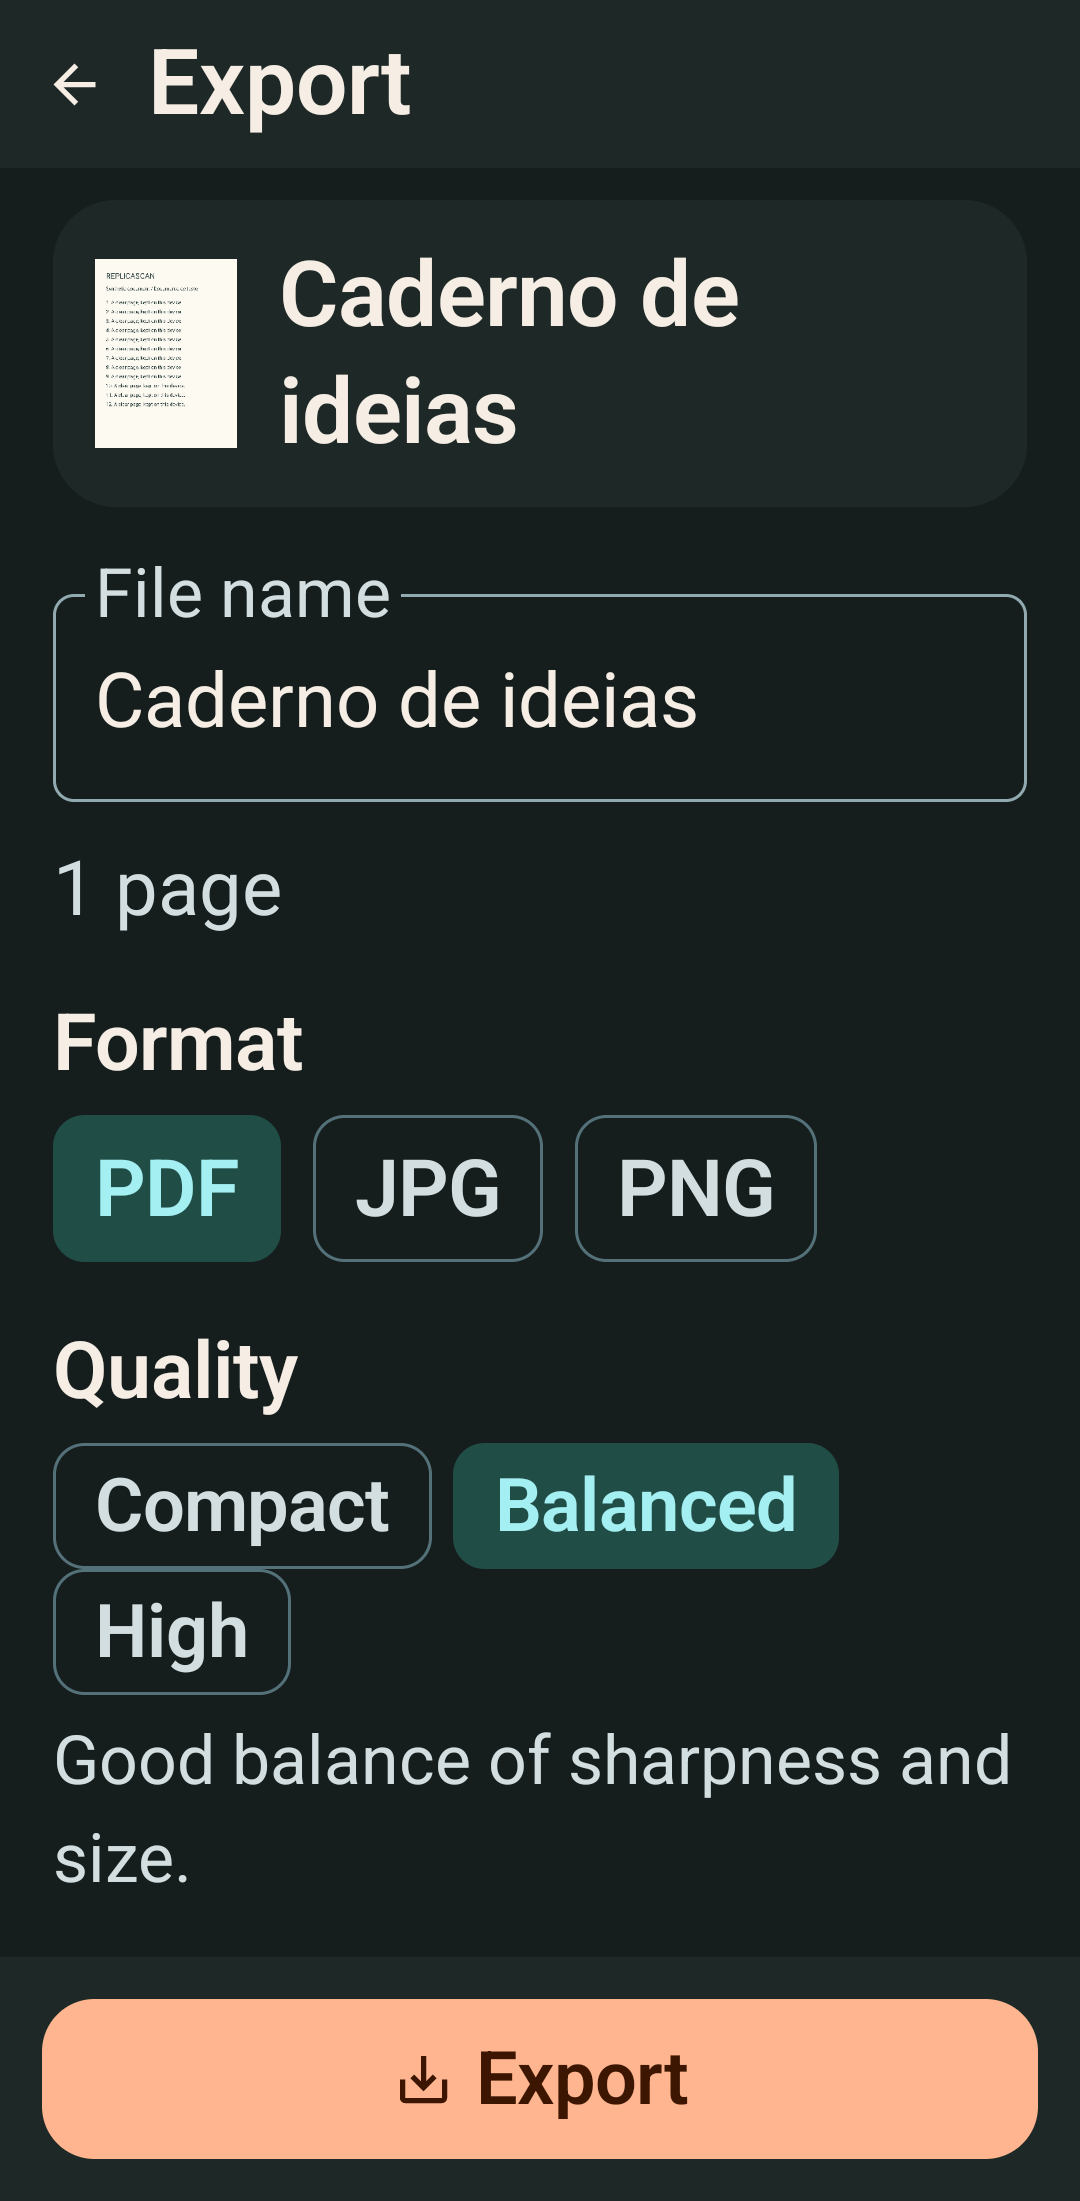
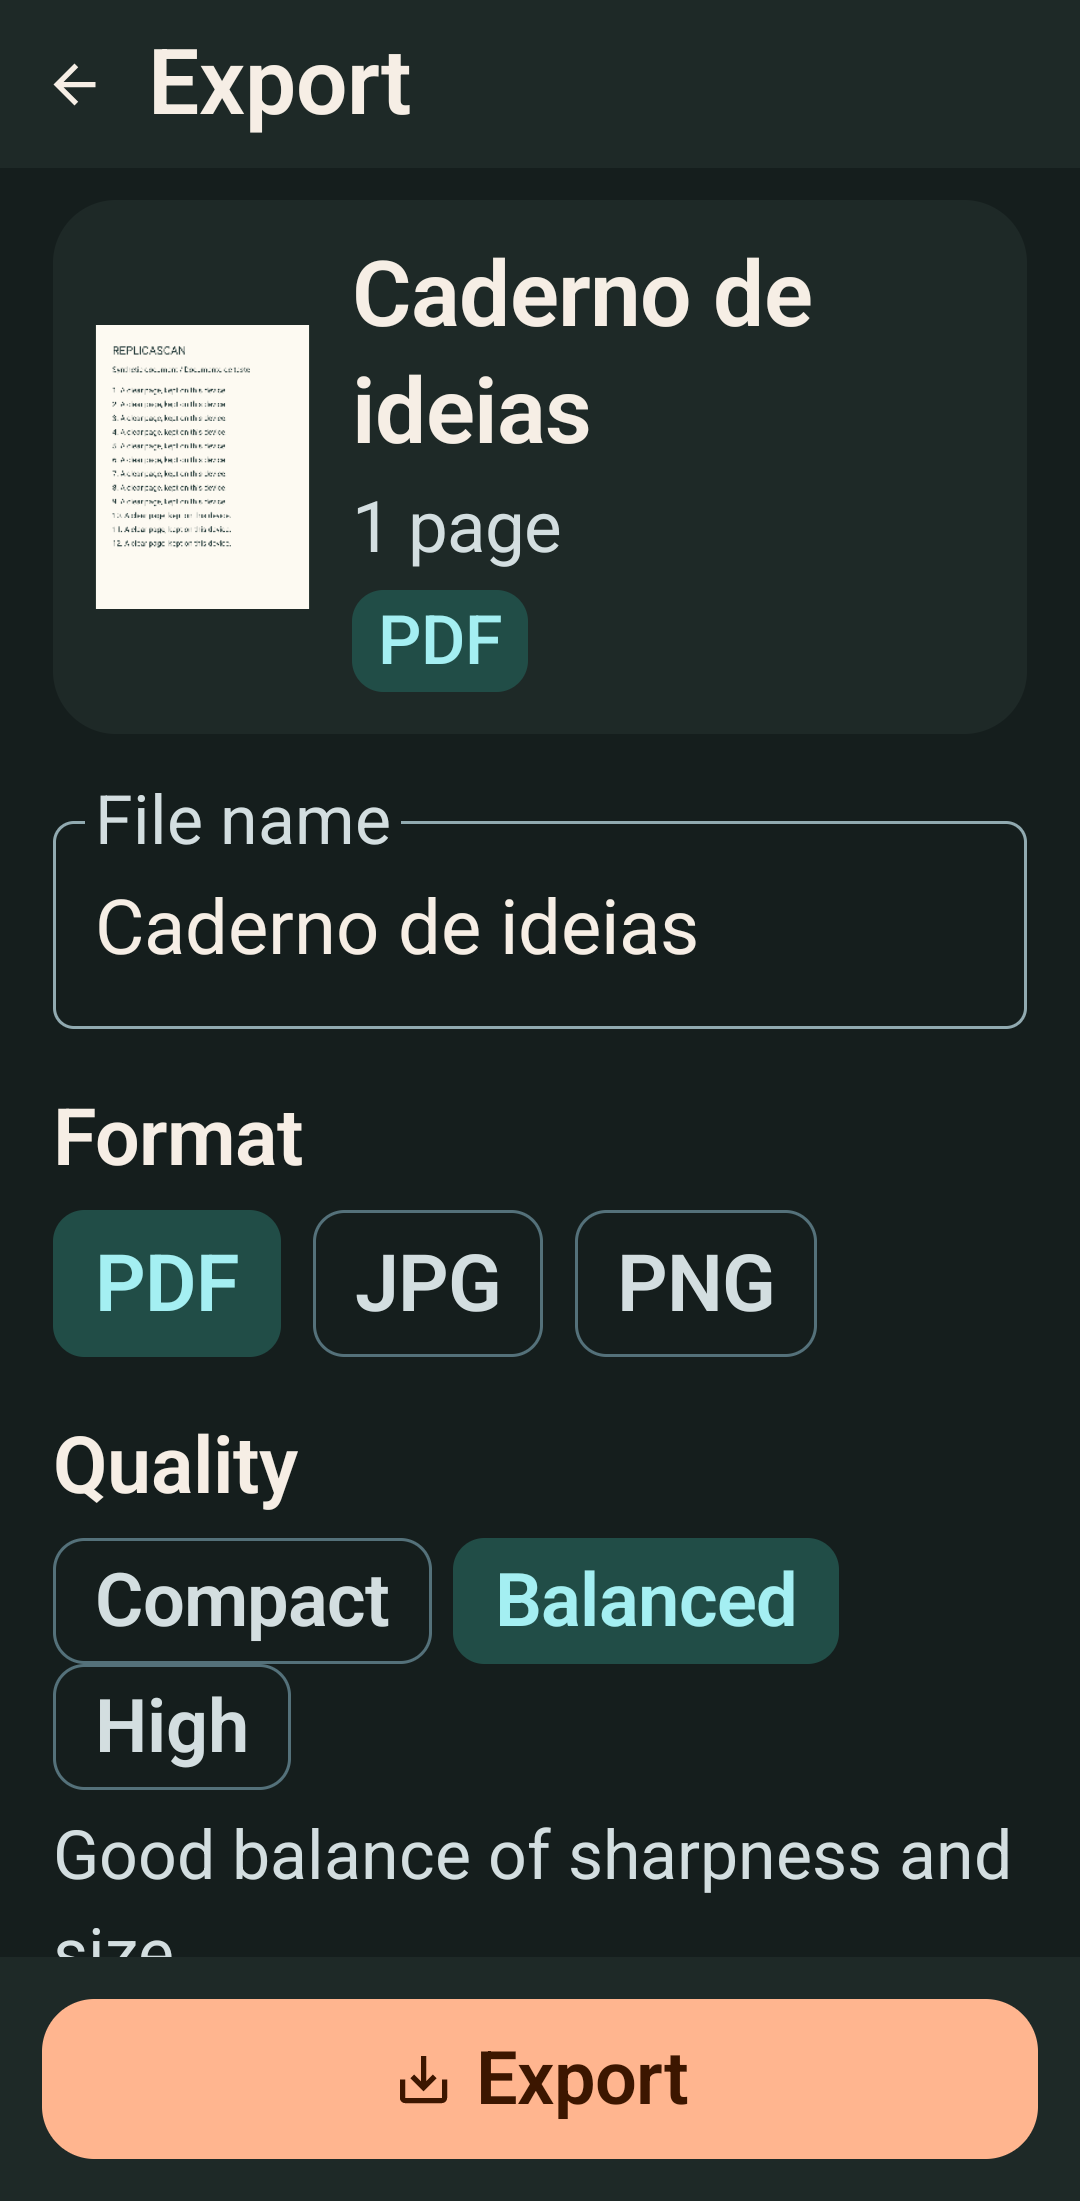
docs(design): review screens and refresh Android captures

diff --git a/docs/design/visual-recovery/evidence/review.html b/docs/design/visual-recovery/evidence/review.html
@@ -23,12 +23,13 @@
   <h1>Comparação visual Android</h1>
   <p>À esquerda, a captura rejeitada do ciclo anterior. À direita, o estado atual renderizado pelo Compose no emulador Android 14 / API 34, com documento sintético e estados injetados. A prévia de exportação em andamento foi recapturada após a mudança funcional. Esta prancha é evidência para revisão, não aceite estético nem prova de câmera, OCR ou exportação reais.</p>
   <nav aria-label="Ir para tela">
-    <a href="#home">Home</a><a href="#review">Revisão</a><a href="#crop">Recorte</a>
+    <a href="#home">Home</a><a href="#large-type">Fonte 200%</a><a href="#review">Revisão</a><a href="#crop">Recorte</a>
     <a href="#export">Exportação</a><a href="#progress">Progresso</a><a href="#success">Sucesso</a>
     <a href="#onboarding">Introdução</a><a href="#ocr">OCR</a><a href="#history">Histórico</a>
     <a href="#settings">Configurações</a><a href="#launcher">Ícone</a>
   </nav>
   <section id="home"><h2>Home com documento</h2><div class="pair"><figure><figcaption>Anterior</figcaption><img src="../../evidence/home-recent.png" alt="Home anterior"></figure><figure><figcaption>Atual</figcaption><img src="home-recent.png" alt="Home atual com raposa aprovada"></figure></div></section>
+  <section id="large-type"><h2>Home com fonte 200% e tema escuro</h2><p>Nesta configuração, a ilustração cede espaço ao título e às ações. O conteúdo continua rolável para documentos adicionais.</p><figure><img src="home-dark-200.png" alt="Home atual em tema escuro e fonte ampliada a 200%"></figure></section>
   <section id="review"><h2>Revisão</h2><div class="pair"><figure><figcaption>Anterior</figcaption><img src="../../evidence/review.png" alt="Revisão anterior"></figure><figure><figcaption>Atual</figcaption><img src="review.png" alt="Revisão atual"></figure></div></section>
   <section id="crop"><h2>Recorte</h2><div class="pair"><figure><figcaption>Anterior</figcaption><img src="../../evidence/crop.png" alt="Recorte anterior"></figure><figure><figcaption>Atual</figcaption><img src="crop.png" alt="Recorte atual"></figure></div></section>
   <section id="export"><h2>Opções de exportação</h2><div class="pair"><figure><figcaption>Anterior</figcaption><img src="../../evidence/export.png" alt="Opções anteriores"></figure><figure><figcaption>Atual</figcaption><img src="export.png" alt="Opções atuais"></figure></div></section>

diff --git a/docs/design/visual-recovery/SCREEN_REVIEW.md b/docs/design/visual-recovery/SCREEN_REVIEW.md
@@ -1,0 +1,26 @@
+# Revisão das telas — checkpoint de composição
+
+`STATUS: REVISÃO PARCIAL, ACEITE VISUAL PENDENTE` (2026-10-12).
+
+Fonte: [capturas atuais e comparação Android](evidence/review.html), com
+documento sintético no emulador API 34. O proprietário aprovou o master e as
+poses estáticas da raposa e autorizou continuar a revisão. Isso não aprova
+automaticamente todas as telas, o movimento ou a release.
+
+| Destino/estado | Observação e decisão | Estado |
+|---|---|---|
+| Home com recentes e vazia | O texto disputava largura com uma raposa pequena. A arte passou a 136 dp e o texto de apoio ocupa a largura completa; em fonte 200%, a arte sai para preservar conteúdo e ações. Espaço inferior com poucos itens continua natural ao conteúdo. | Implementado; capturas API 34 claras, escuras e 200%; aceite pendente |
+| Onboarding (3 páginas) | A raposa aprovada substituiu o atlas rejeitado; ilustração e ação continuam legíveis. A sequência ainda não recebeu nova narrativa visual nem inspeção física de swipe/RTL. | Capturado; revisão pendente |
+| Revisão, crop e filtros | A página é protagonista, o recorte mantém quatro cantos e página inteira por padrão. Não mover controles nem geometria sem corpus real e teste de gesto. | Preservado; QA físico pendente |
+| OCR carregando, pronto e vazio | Texto reconhecido é a peça principal; o grande espaço livre com texto curto não deve ser preenchido por decoração. Estados de modelo e seleção precisam inspeção com OCR real e TalkBack. | Capturado com estado injetado; fluxo real pendente |
+| Exportação: PDF/JPG/PNG | Prévia, quantidade de páginas e formato atual agora formam uma superfície única; nome, qualidade e tamanho continuam editáveis e progressivos. Estado escuro com fonte 200% exige rolagem para opções inferiores. | Implementado; capturas API 34; aceite pendente |
+| Exportação: progresso, sucesso, erro | Progresso mostra a página real e trabalho em curso; sucesso identifica o arquivo; erro mantém recuperação. O progresso ainda tem espaço inferior e movimento de pose inteira. | Capturado com estado injetado; exportação real/aceite pendentes |
+| Histórico, busca, detalhe | Uma biblioteca com só um item deixa espaço livre; não adicionar conteúdo artificial. Busca e ações documentais devem ser exercitadas em aparelho. | Capturado; interação pendente |
+| Configurações, idioma, sobre | Grupos e alvos de toque estão claros, embora a linguagem visual ainda seja próxima do Material padrão. Validar todos os idiomas, RTL e fonte ampliada. | Capturado; revisão linguística/QA pendentes |
+| Ícone adaptativo | Raposa + documento são legíveis nas máscaras capturadas, mas o traço vetorial é mais plano que a mascote aprovada. | Divergência visual aberta; escolha do proprietário pendente |
+| Site | Capturas de Home e opções de exportação atualizadas. | Implementado; gate local do site passou, publicação remota pendente |
+
+As POCs Pipa/Lume informam hierarquia e ritmo, sem fornecer código ou assets de
+produção. O [mapa de referências](REFERENCE_MAP.md) lista as divergências. A
+[matriz de validação](VALIDATION_MATRIX.md) distingue a inspeção das capturas,
+testes instrumentais, QA físico e aprovação estética.

diff --git a/docs/design/visual-recovery/VALIDATION_MATRIX.md b/docs/design/visual-recovery/VALIDATION_MATRIX.md
@@ -4,11 +4,11 @@
 |---|---|---|---|---|---|
 | Direção e master da raposa | original v0.4.0 e master editado, com seis poses derivadas | personagem consistente na prancha; master e poses aprovados em mensagens explícitas | `candidates/review.png` | proprietário | ARTE ESTÁTICA APROVADA |
 | Movimento sem pops/cortes | poses inteiras Compose; atlas 3×3 removido | teste Android verifica movimento e redução; articulação independente não implementada | `evidence/mascot-motion-v1.mp4` e dois frames Android | proprietário | PARCIAL, ACEITE PENDENTE |
-| Home/Export e demais telas | nova raposa em todos os callers; progresso inclui página real | cinco testes de UI Android passaram com fixture sintética | `evidence/review.html` compara as capturas atuais com o baseline rejeitado; fluxo físico não foi exercitado | proprietário | PARCIAL, ACEITE PENDENTE |
+| Home/Export e demais telas | Home amplia a mascote e libera largura para texto; opções de exportação reúnem prévia/páginas/formato; progresso inclui página real | `renderScreenMatrix` passou no emulador API 34 com fixture sintética | `evidence/review.html` compara capturas atuais e baseline; fluxo físico não foi exercitado | proprietário | PARCIAL, ACEITE PENDENTE |
 | Crop sequencial e pixels exportados | `CropScreen`, `QuadEditorOverlay`, `CropExportIntegrationTest` | API 34 passou no ciclo anterior; revalidar após mudança | `../evidence/crop.png` baseline | teste/inspeção | PRESERVAR |
 | Export parcial de histórico | `ExportViewModelTest` | 3 testes unitários passaram no ciclo anterior | `../evidence/export-library-warning.png` baseline | teste/inspeção | PRESERVAR |
-| UI 200%, RTL, landscape, compacto | injeção de density/RTL existente | API 34 parcial | baseline `../evidence/` | QA humano | PARTIAL |
-| Instrumentação API 36, lint e Python | workflow e AGENTS.md | Gradle `testDebugUnitTest lint check assembleDebug assembleRelease assembleDebugAndroidTest` e cinco checks Python passaram após integração; CI API 36 do HEAD final pendente | clipe e capturas locais | gates | LOCAL PASS; CI PENDING |
+| UI 200%, RTL, landscape, compacto | Home consulta `LocalDensity` efetivo e omite arte com fonte ampliada | API 34: matriz de tela passou; não cobre interações TalkBack | `evidence/home-dark-200.png`, `export-dark-200.png` e `review-dark-200-rtl.png`; largo ainda usa baseline | QA humano | PARCIAL |
+| Instrumentação API 36, lint e Python | workflow e AGENTS.md | Gradle `testDebugUnitTest lint check assembleDebug assembleRelease assembleDebugAndroidTest` e cinco checks Python passaram após a revisão de telas; CI API 36 do HEAD final pendente | clipe e capturas locais | gates | LOCAL PASS; CI PENDING |
 | Tag/release v0.4.1 | manifesto é intenção | aprovação visual expressa do sistema completo ainda não existe | pacote comparativo e clipe em `evidence/`; QA físico pendente | proprietário | BLOCKED |
 
 Após cada fatia: usar fonte atual, teste de risco, captura Android e comparação

diff --git a/README.md b/README.md
@@ -21,15 +21,15 @@ ReplicaScan é um scanner Android local-first: escaneia com o ML Kit Document Sc
 - PDF pesquisável quando há OCR, JPG e PNG, com opções progressivas por formato;
 - histórico local com título, tags, favoritos e busca Room FTS;
 - 12 idiomas, incluindo árabe com RTL;
-- raposa animada por partes, respeitando redução de movimento; símbolo vetorial no launcher.
+- raposa animada por poses completas, respeitando redução de movimento; símbolo vetorial no launcher.
 
 Não há conta, backend, sincronização ou upload obrigatório de documentos. Componentes do Google Play services/ML Kit podem contatar o Google para atualizações e métricas técnicas conforme os termos do fornecedor; veja [PRIVACY_POLICY.md](PRIVACY_POLICY.md).
 
 ## Redesign e evidência
 
-A base da v0.4.1 traz papel marfim, tinta petróleo e terracota, revisão de telas, crop com cantos independentes e exportação com nome de arquivo, progresso e recuperação persistente. O visual do ciclo anterior foi rejeitado pelo proprietário. Um novo master e sete poses baseados na raposa da v0.4.0 receberam aceite como arte estática; a animação e as telas ainda estão em revisão.
+A base da v0.4.1 traz papel marfim, tinta petróleo e terracota, revisão de telas, crop com cantos independentes e exportação com nome de arquivo, progresso e recuperação persistente. O visual do ciclo anterior foi rejeitado pelo proprietário. Um novo master e sete poses baseados na raposa da v0.4.0 receberam aceite como arte estática. A Home e as opções de exportação foram recapturadas após uma revisão de composição; a animação e o conjunto das telas ainda estão em avaliação.
 
-Veja a [auditoria de recuperação visual](docs/design/visual-recovery/AUDIT.md), a [prancha das poses](docs/design/visual-recovery/candidates/review.html), o [clipe e as capturas Android atuais](docs/design/visual-recovery/evidence/README.md) e a [matriz de telas e limites de validação](docs/design/visual-recovery/VALIDATION_MATRIX.md). O material novo usa estados injetados e documento sintético; não substitui QA físico, TalkBack humano, revisão linguística nativa ou aceite final.
+Veja a [auditoria de recuperação visual](docs/design/visual-recovery/AUDIT.md), a [prancha das poses](docs/design/visual-recovery/candidates/review.html), o [clipe e as capturas Android atuais](docs/design/visual-recovery/evidence/README.md), a [revisão por tela](docs/design/visual-recovery/SCREEN_REVIEW.md) e a [matriz de validação](docs/design/visual-recovery/VALIDATION_MATRIX.md). O material novo usa estados injetados e documento sintético; não substitui QA físico, TalkBack humano, revisão linguística nativa ou aceite final.
 
 ## Identidade Android
 

diff --git a/CHANGELOG.md b/CHANGELOG.md
@@ -6,6 +6,7 @@ Este projeto segue Semantic Versioning e recomenda Conventional Commits no fluxo
 
 - Recuperação visual em andamento após rejeição do redesign anterior: master e poses baseados na raposa da v0.4.0 aprovados como arte estática; movimento e telas ainda pendentes de aceite.
 - Atlas deformado substituído por poses completas em Compose, com movimento discreto, respeito ao lifecycle/redução de movimento e clipe de frames Android. Exportação em andamento voltou a mostrar prévia e identificação da página.
+- Home com mascote mais legível e texto em largura completa; em fonte 200% a arte cede espaço ao conteúdo. Opções de exportação reúnem prévia, páginas e formato atual na mesma superfície.
 - Site móvel corrigido para não expandir além de 390 px por causa do bloco de instalação.
 - Teste de swipe no onboarding agora inicia o gesto no pager e aguarda a página seguinte; regressão detectada no gate API 36 anterior.
 
@@ -15,7 +16,7 @@ Este projeto segue Semantic Versioning e recomenda Conventional Commits no fluxo
 
 - Tema claro/escuro de papel marfim, tinta petróleo e terracota; tipografia, superfícies, largura de leitura e botões compartilhados.
 - Onboarding com cenas animadas e voltar/pular; Home, revisão, filtros, OCR, histórico, detalhe, configurações e diálogos alinhados ao tema.
-- Atlas experimental com cabeça, expressões, cauda, patas e objetos animados em Compose; pausa por lifecycle e redução de movimento. A qualidade visual foi rejeitada e sua substituição está em andamento.
+- Atlas experimental com cabeça, expressões, cauda, patas e objetos animados em Compose foi rejeitado e substituído no ciclo de recuperação; a nova animação por poses inteiras pausa por lifecycle e respeita redução de movimento.
 - Ícone vetorial com raposa e folha, fundo adaptativo separado e variante monochrome; 12 PNGs antigos de runtime removidos.
 - Exportação com nome validado, formatos visíveis, progresso indeterminado, erro persistente e nomes dos arquivos salvos.
 - Comparação do filtro ao segurar, com retorno ao soltar e alternativa semântica; feedback de pressão no botão principal.

diff --git a/docs/design/visual-recovery/evidence/README.md b/docs/design/visual-recovery/evidence/README.md
@@ -5,8 +5,9 @@ Android 14 / API 34, com APK debug da v0.4.1 em desenvolvimento. As capturas
 medem 1080×2201 px, usam a localização inglesa do emulador, documento
 sintético e estados injetados; não demonstram captura física, OCR real ou
 escrita de exportação. `export-progress.png` foi recapturada após incluir a
-prévia da página real na composição; as demais capturas vieram da mesma fatia
-de runtime com as poses aprovadas.
+prévia da página real na composição. Home e opções de exportação foram
+recapturadas após a revisão de composição; as demais capturas vêm da fatia
+anterior do mesmo runtime com as poses aprovadas.
 
 O [clipe](mascot-motion-v1.mp4) reúne 64 frames renderizados no Android com o
 clock de teste em passos de 125 ms e codificados em MP4 a 8 fps. Sequência:
@@ -24,12 +25,13 @@ Master e poses estáticas receberam aprovação do proprietário. Movimento,
 composição das telas e release ainda precisam de aceite expresso. O antigo
 `docs/design/evidence/` permanece como baseline rejeitado.
 
-Pontos abertos para esta revisão: a Home ainda concentra a raposa em um hero
-pequeno e deixa grande área inferior vazia; as opções de exportação conservam
-aparência de formulário e o progresso ainda tem espaço inferior pouco usado;
+Pontos abertos para esta revisão: a Home ainda deixa espaço inferior vazio
+quando a biblioteca é curta; as opções de exportação conservam controles de
+formulário e o progresso ainda tem espaço inferior pouco usado;
 o ícone vetorial usa linguagem mais plana que a mascote; o movimento atual é
 discreto e não articula membros. A inspeção manual de transições, recorte com
 câmera real, tema escuro, fonte 200%, RTL e TalkBack também permanece pendente.
+As capturas de tema escuro/fonte 200% são amostras, não QA humano completo.
 As diferenças voluntárias em relação às POCs Pipa/Lume estão registradas no
 [mapa de referências](../REFERENCE_MAP.md); nenhum dos HTMLs ou assets delas
 foi incorporado ao produto.
